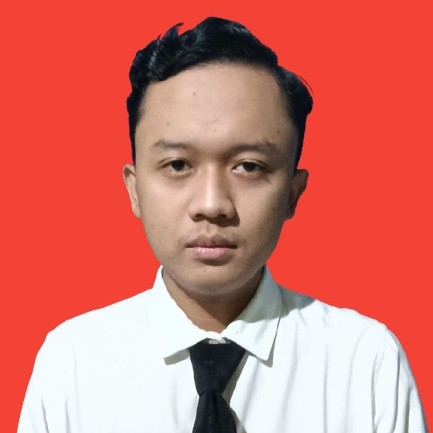
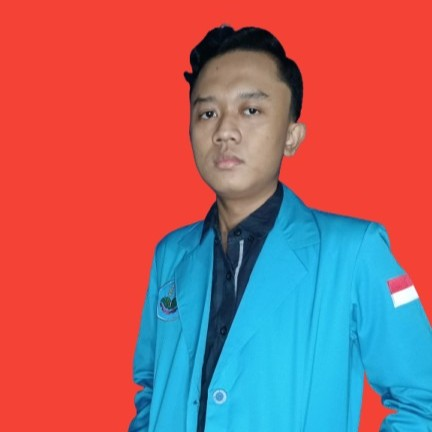
Update Experience

diff --git a/index.html b/index.html
@@ -99,7 +99,7 @@
 
         <div class="row gy-4 justify-content-center">
           <div class="col-lg-4">
-            <img src="assets/img/profil.jpg" class="img-fluid" alt="">
+            <img src="assets/img/profile-about.jpg" class="img-fluid" alt="">
           </div>
           <div class="col-lg-8 content">
             <h2>Data Scientists &amp; Machine Learning Engineer.</h2>
@@ -148,6 +148,30 @@
             <h3 class="resume-title">Experience</h3>
 
             <div class="resume-item">
+              <h4>Coding Camp 2025 Powered by DBS Foundation | Machine Learning Engineer (Cohort University)</h4>
+              <h5>February 2025 - June 2025</h5>
+              <p><em>Hybrid</em></p>
+              <ul>
+                <li>Built and deployed machine learning models for real-world applications through intensive training and projects.</li>
+                <li>Worked on a capstone project: <strong>Supermarket Product Recommendation System</strong> using content-based filtering and collaborative filtering approaches.</li>
+                <li>Performed data preprocessing, feature extraction, and model evaluation to optimize recommendation accuracy.</li>
+                <li>Collaborated with peers and mentors to present insights and deliver end-to-end ML solutions.</li>
+              </ul>
+            </div><!-- End Resume Item -->
+
+            <div class="resume-item">
+              <h4>ATRIA (CV Alkas Triyasa Adhimukti) | Software Engineer Backend (Internship)</h4>
+              <h5>July 2025 - November 2025</h5>
+              <p><em>Sidoarjo, Jawa Timur</em></p>
+              <ul>
+                <li>Developed backend services and RESTful APIs for a <strong>Task Management, Timesheet, and Employee Attendance Application</strong>.</li>
+                <li>Implemented role-based authentication and authorization to ensure secure system access.</li>
+                <li>Optimized database queries and designed efficient data models for scalable application performance.</li>
+                <li>Collaborated with frontend developers and project managers to deliver a functional and reliable HR system.</li>
+              </ul>
+            </div><!-- End Resume Item -->
+
+            <div class="resume-item">
               <h4>AquaGrow | AI & Computer Vision Engineer</h4>
               <h5>August 2024 - December 2024</h5>
               <p><em>Nganjuk, Jawa Timur</em></p>
@@ -159,29 +183,6 @@
               </ul>
             </div><!-- End Resume Item -->
 
-            <div class="resume-item">
-              <h4>PusLine | Data Scientist</h4>
-              <h5>January 2024 - June 2024</h5>
-              <p><em>Nganjuk, Jawa Timur</em></p>
-              <ul>
-                <li>Conduct data mining and analysis to enhance user experience and app performance.</li>
-                <li>Utilize statistical techniques to interpret user behavior and app usage patterns.</li>
-                <li>Create dashboards and visualizations to communicate findings effectively.</li>
-                <li>Work closely with developers to integrate analytics tools and improve app functionalities.</li>
-              </ul>
-            </div><!-- End Resume Item -->
-
-            <div class="resume-item">
-              <h4>SiDuta | Mobile Developer</h4>
-              <h5>August 2023 - December 2023</h5>
-              <p><em>Nganjuk, Jawa Timur</em></p>
-              <ul>
-                <li>Develop native or cross-platform mobile applications for Android platforms.</li>
-                <li>Integrate APIs and third-party services to enhance app functionality.</li>
-                <li>Conduct testing and debugging to ensure smooth performance across devices.</li>
-                <li>Stay updated with industry trends and best practices in mobile app development.</li>
-              </ul>
-            </div><!-- End Resume Item -->
           </div><!-- End Experience Section -->
 
           <!-- Education & Certifications Section -->
